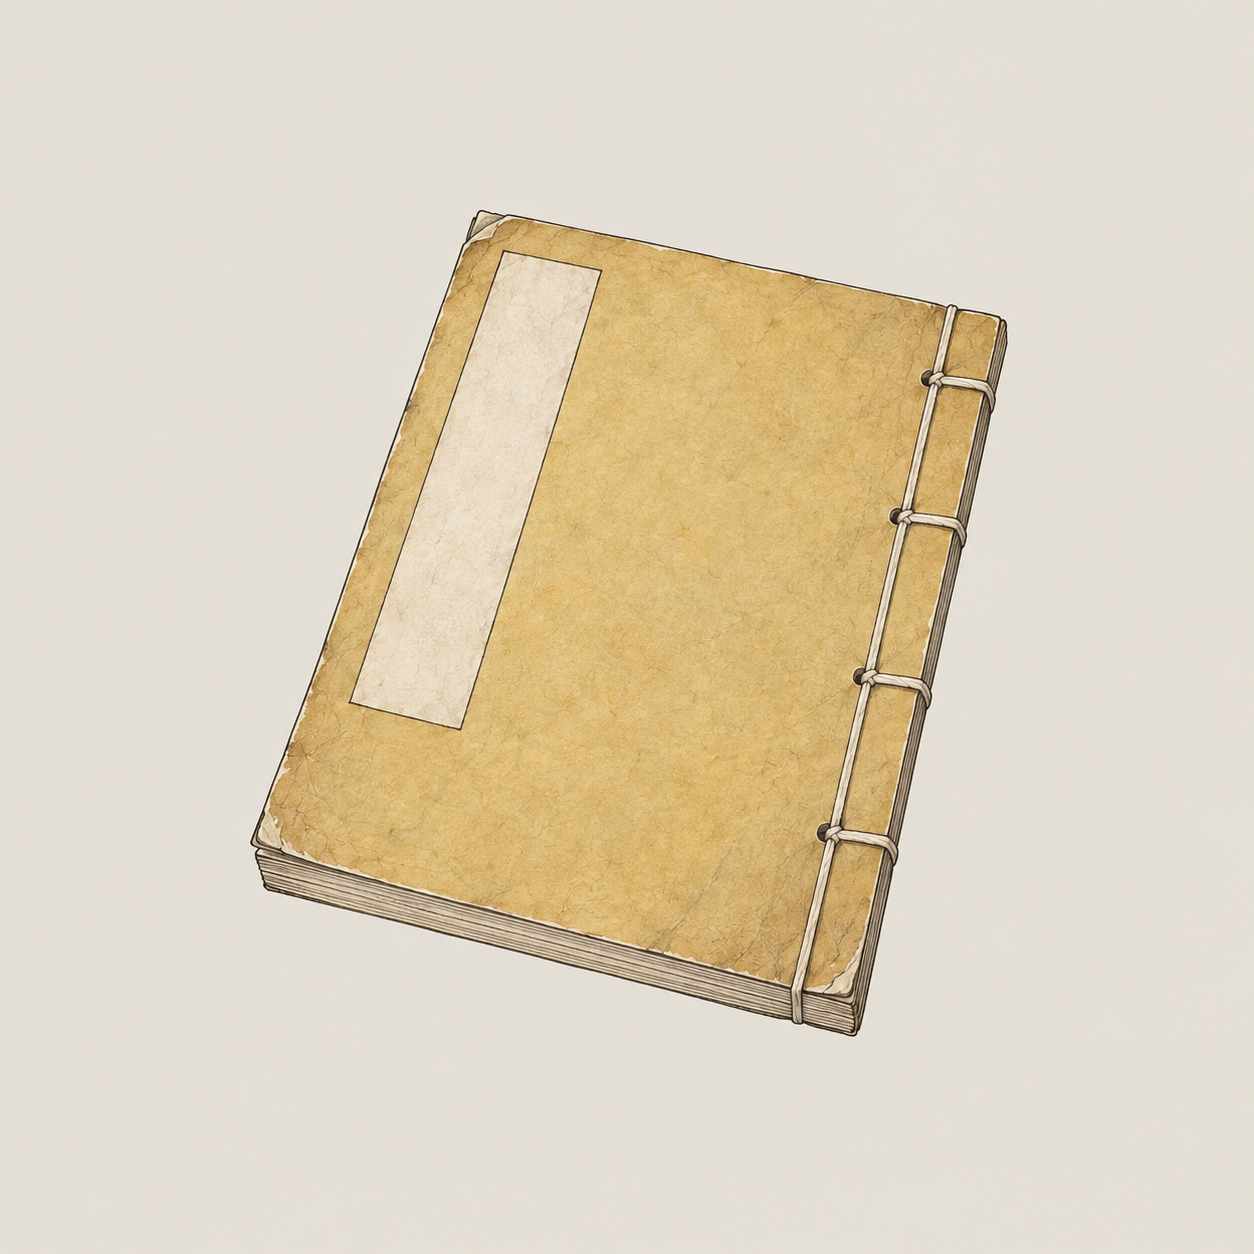
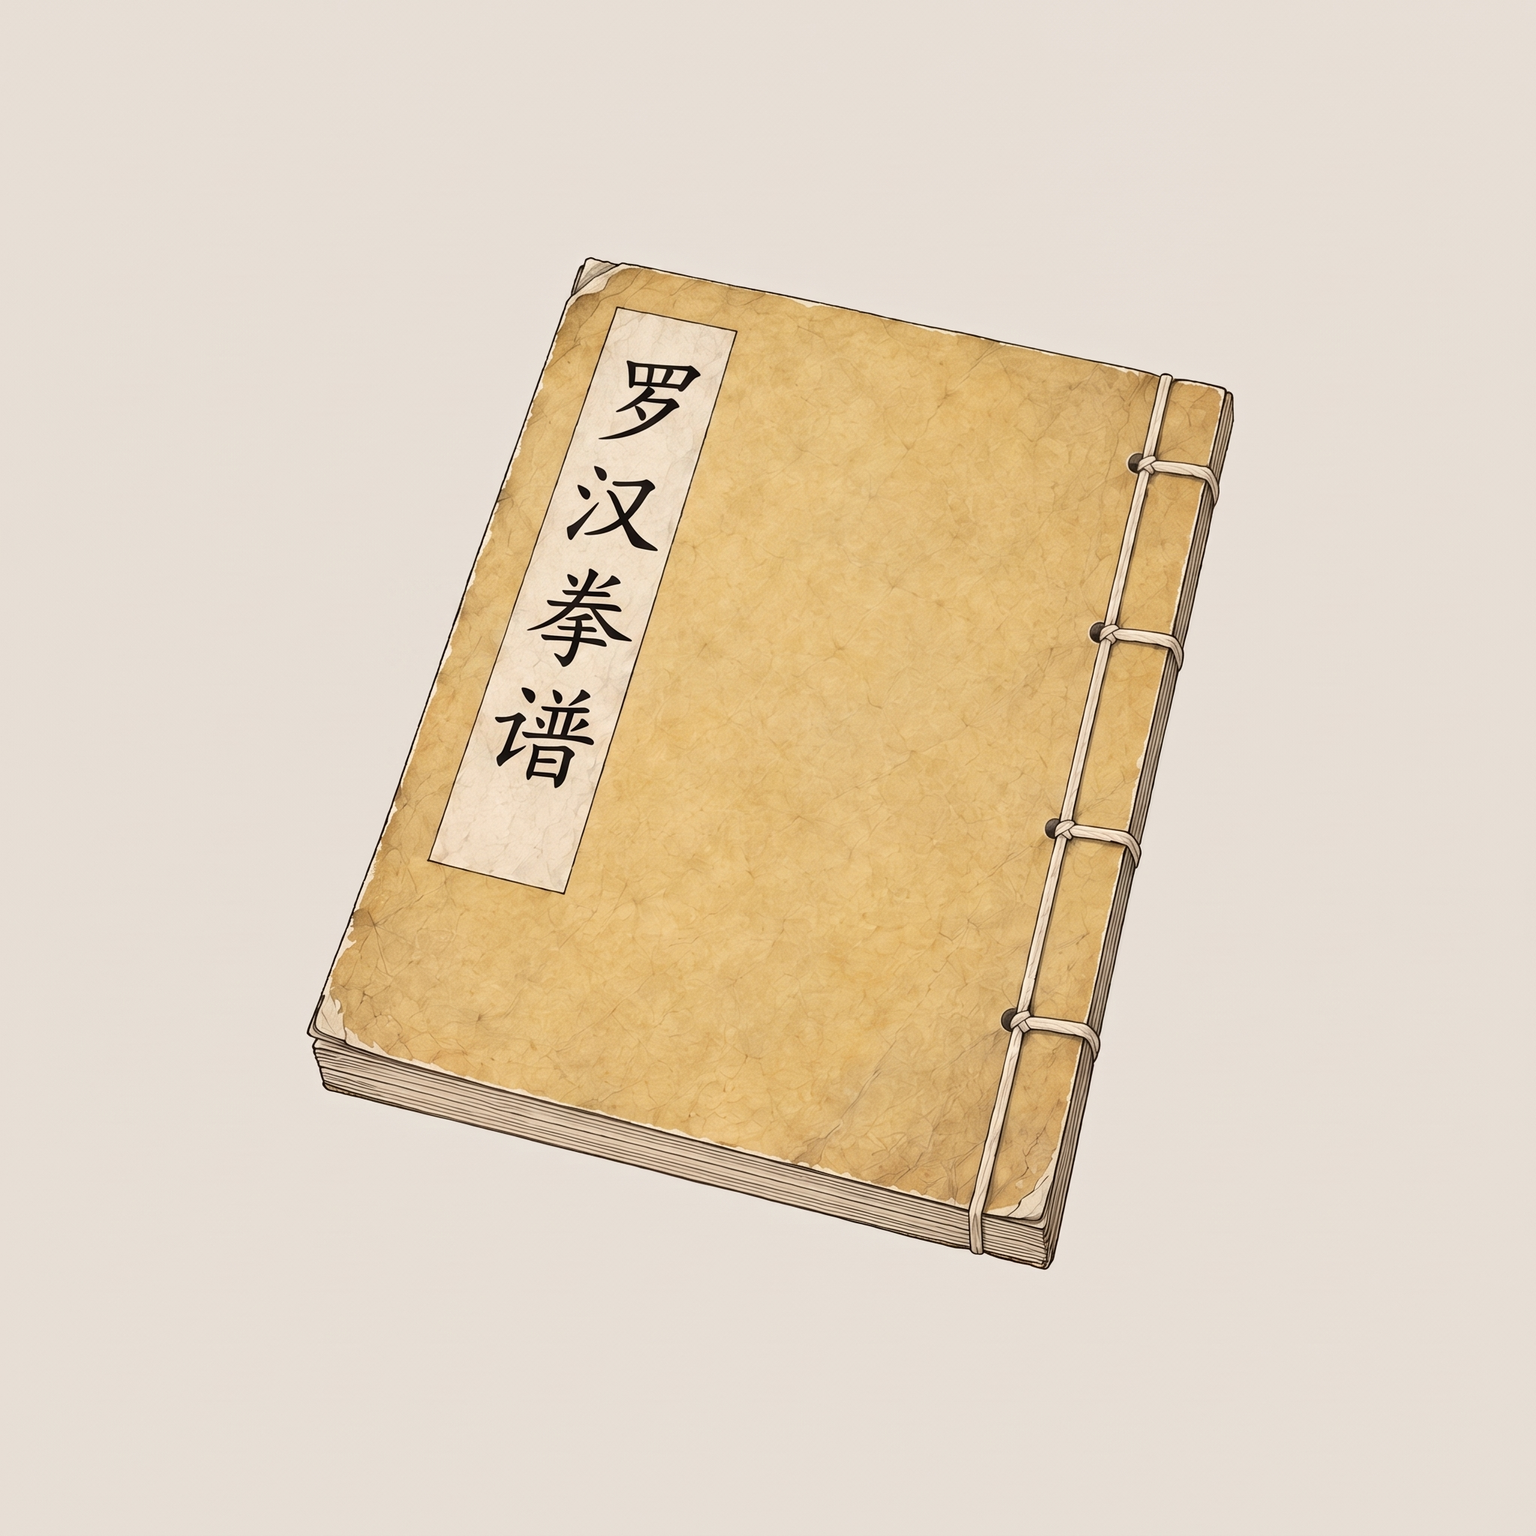
assets(gemini): it_miji_luohanquan 罗汉拳谱

diff --git a/assets/default/prompts/INDEX.md b/assets/default/prompts/INDEX.md
@@ -3,7 +3,7 @@
 > 本文件由 `tools/agents/build_image_index.py` 生成，不要手改；改提示词就改各文件，改规程就改各组 `GUIDE.md`，然后重新生成。
 > 人物立绘另见 `characters/INDEX.md`（别的 agent 在出，不在本索引）。建筑套件与贴片已出齐，只列完成度。
 
-提示词 **627** 份：已入库 248、待出图 238、已通过（作者） 141。**待出图队列 238 行**（`python3 tools/agents/build_image_index.py --queue`）。
+提示词 **627** 份：已入库 249、待出图 238、已通过（作者） 140。**待出图队列 238 行**（`python3 tools/agents/build_image_index.py --queue`）。
 
 ## 出图 agent 怎么用
 
@@ -403,7 +403,7 @@
 | 122 | 猪肚 | `it_zhudu` | 黄 | 食材·肉 | 待出图 | [it_zhudu.md](items/food/it_zhudu.md) | template |
 | 123 | 猪肉 | `it_zhurou` | 黄 | 食材·肉 | 待出图 | [it_zhurou.md](items/food/it_zhurou.md) | template |
 
-### 武学秘籍（18）· 已入库 9、已通过（作者） 9
+### 武学秘籍（18）· 已入库 10、已通过（作者） 8
 
 （已全部入库。）
 
